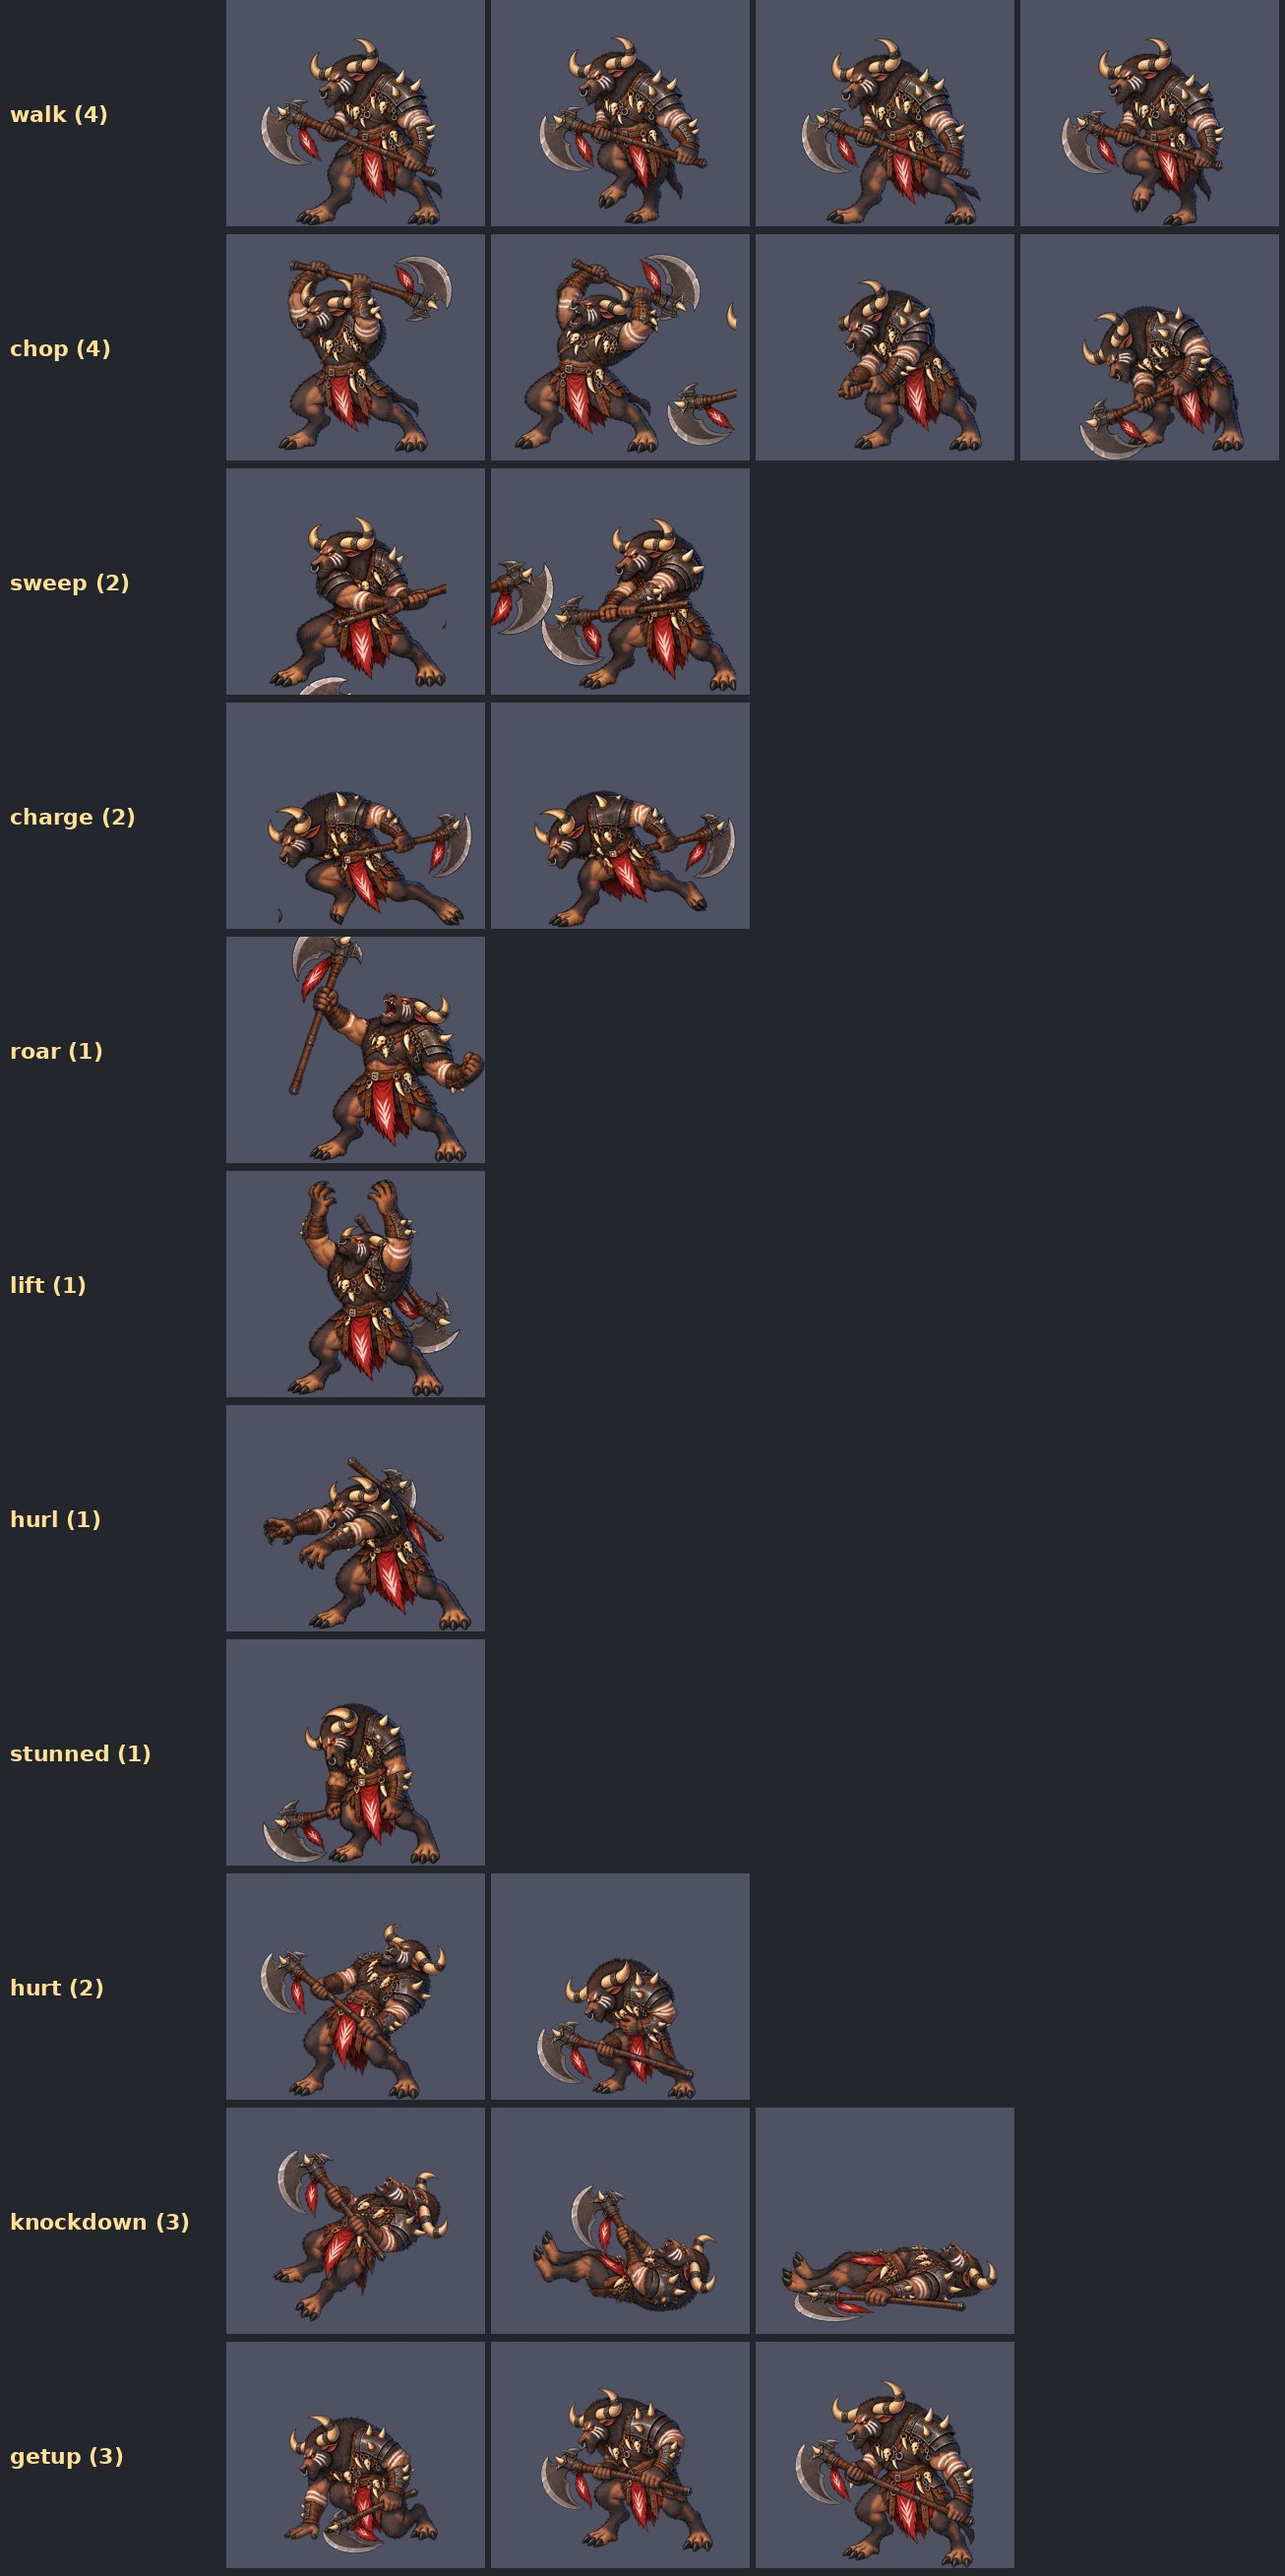
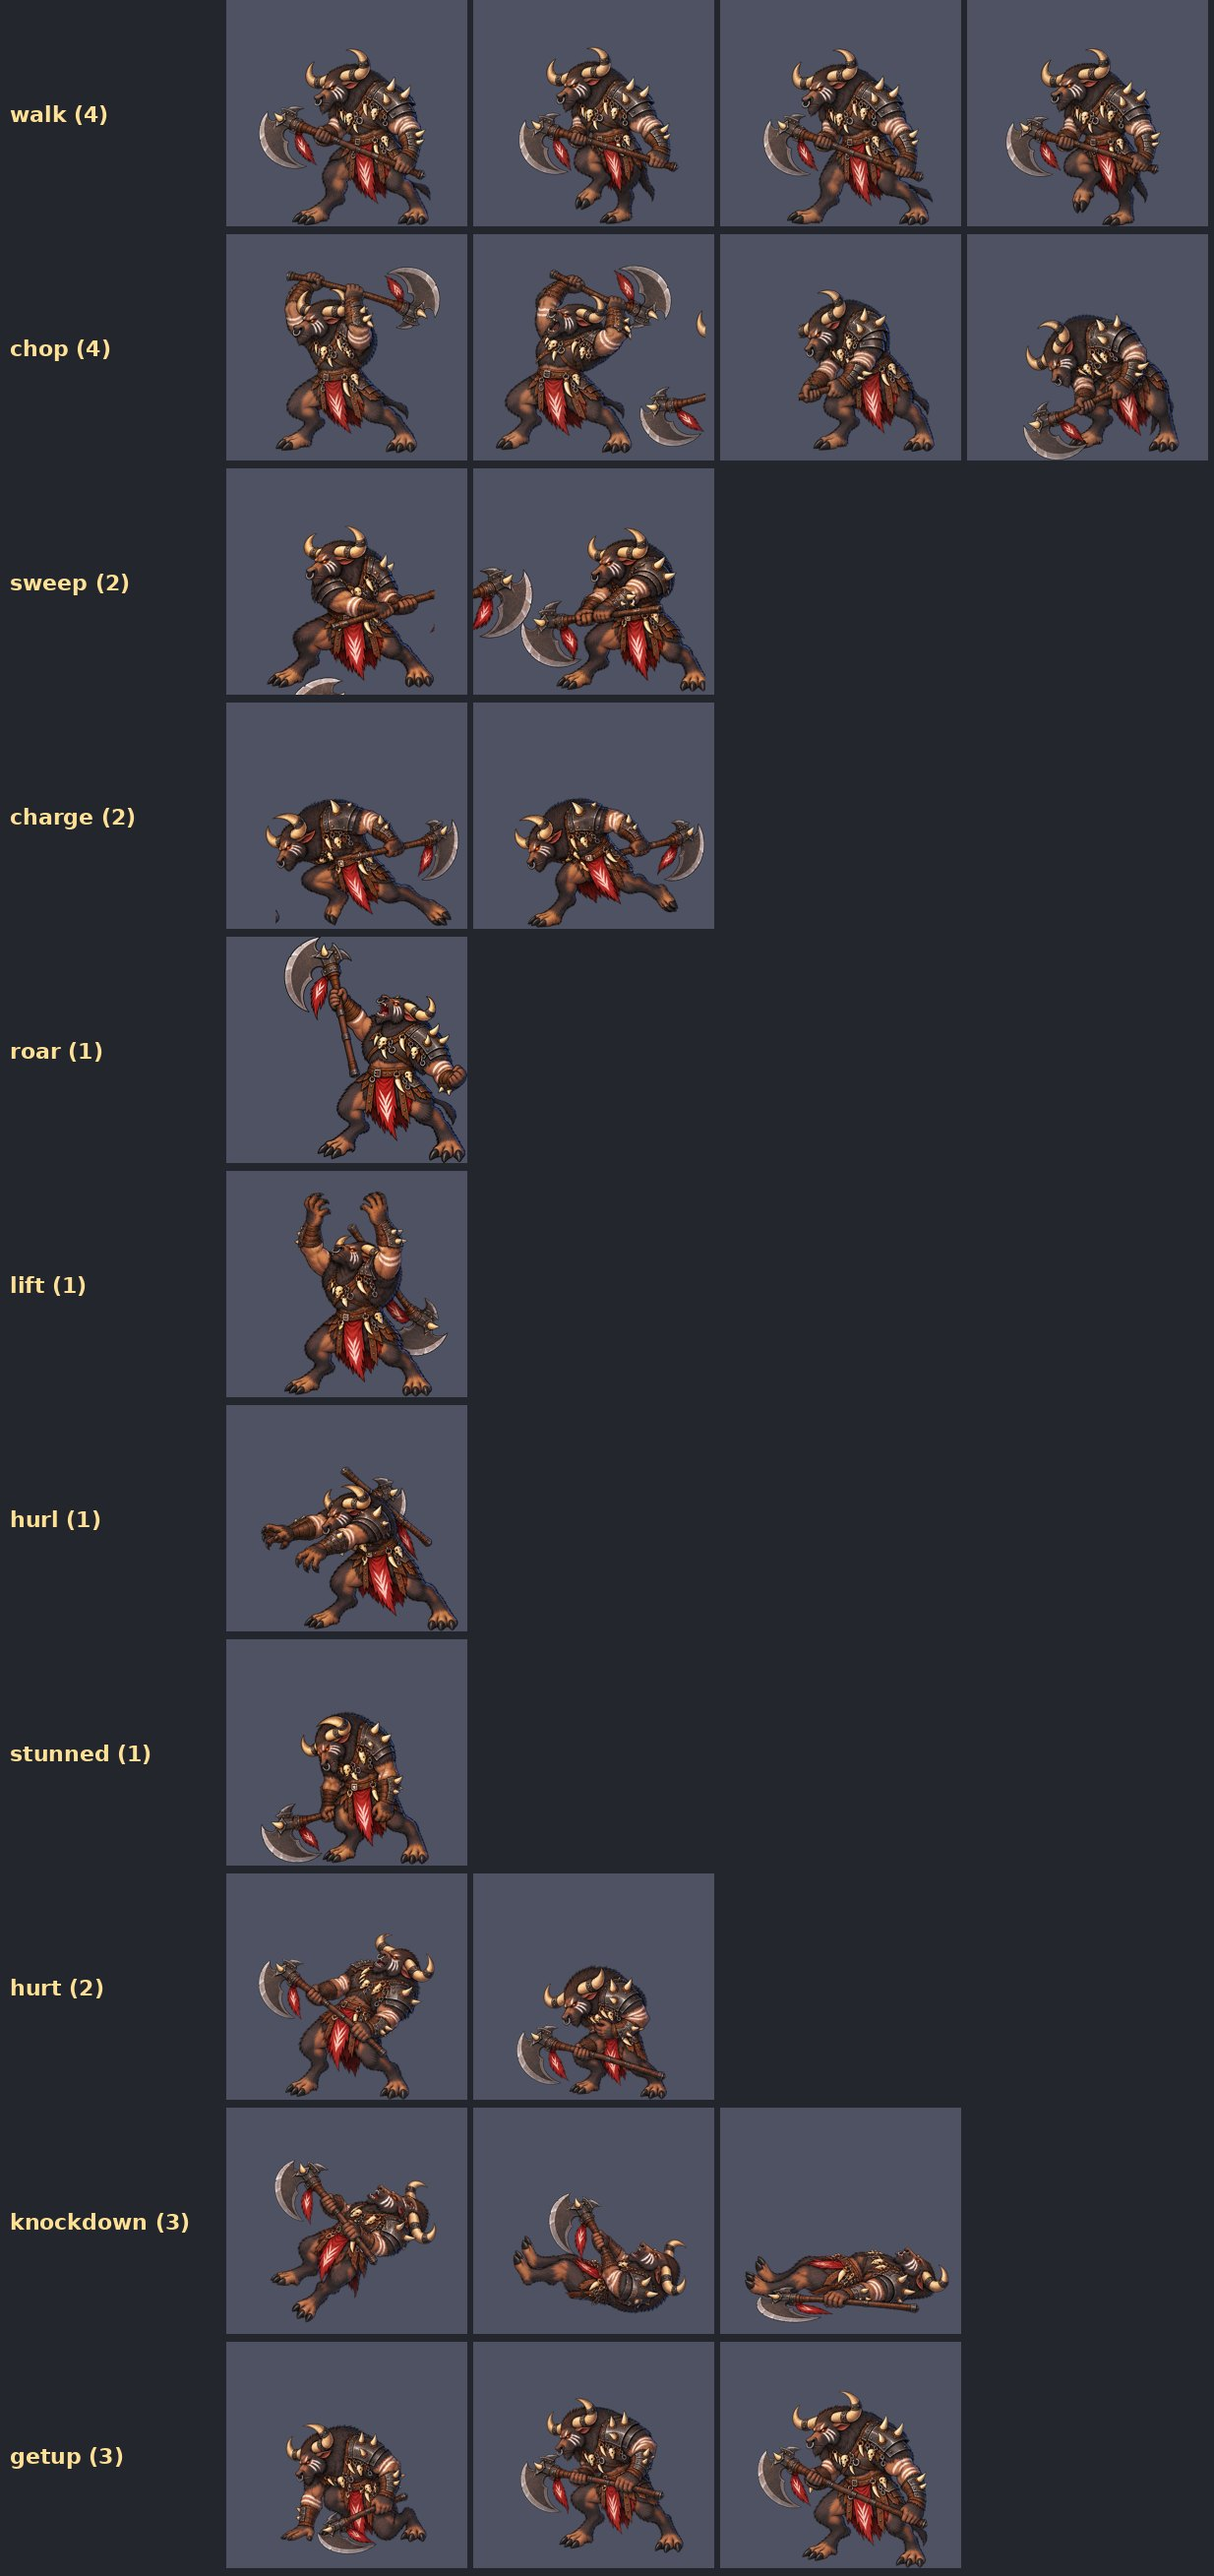
STAGE1.md: re-rolls section, roar correction; updated contact sheets and before/after images

diff --git a/STAGE1.md b/STAGE1.md
@@ -13,14 +13,14 @@ No frame was faked: nothing blurred, mirrored, recolored, interpolated or invent
 
 | Sheet | Frames used | Tries (kept) | Notes |
 |---|---|---|---|
-| Riley run | 8 | 3 (3rd) | Row 2 is close to row 1, so the cycle reads as 4 poses drawn twice with small differences. Acceptable at run speed, but a re-roll would help. |
+| Riley run | 8 | 3 (3rd) + re-roll 3 (2nd) | Frames 1–4 come from this sheet; frames 5–8 were re-rolled on Oct 2 (see Re-rolls). |
 | Riley jump + air kick | crouch, rise, apex, fall, land + kick 3 | 3 (2nd) | |
 | Riley back kick + cast | 4 + 4 | 2 (2nd) | Cast now has dedicated frames; the spike reused the jab. |
 | Riley grab set | grab, hold, knee ×2, throw ×2, return to guard ×2 | not logged | Return to guard is the tail of `throw`. |
 | Trolloc grunt chop (re-roll) | 6 + get-up 2 | 3 (2nd) | **The blade is rigid in every frame.** It no longer stretches like the spike's smear. |
 | Spear Trolloc master + sheets | walk 4, thrust 4, hurt 2, knockdown 3, get-up 3 | master 2, sheets 3 + 3 | Goat-horned, long spear. |
 | Hound Trolloc master + sheets | run 4, leap slash 4, reactions 8 | master 2, sheets not logged | Wolf-headed, hooked knives, fast flanker. |
-| Trolloc Chieftain master + sheets | walk 4, overhead chop 4, sweep 2, horn charge 2, roar 1, lift 1, hurl 1, stunned 1, reactions | master 2, sheets not logged | **The roar frame faces right** (the rest of his frames face left). In game it is displayed with the opposite flip, so he roars at Riley. |
+| Trolloc Chieftain master + sheets | walk 4, overhead chop 4, sweep 2, horn charge 2, roar 1, lift 1, hurl 1, stunned 1, reactions | master 2, sheets not logged | Roar frame re-rolled on Oct 2 (see Re-rolls). |
 | Backdrop batch 2 | village-green mid plate (oak, Winespring, burning wagon), second floor, cart, barrel, broken barrel (8 staves) | 1 job | The mid plate joins seamlessly with the spike plate. |
 
 - Total generations: 23 logged for 9 of the sheets above, plus at least 1 per remaining job and 5 backdrop images. Roughly 35–40 in all; the exact count wasn't logged for every job.
@@ -83,6 +83,18 @@ No frame was faked: nothing blurred, mirrored, recolored, interpolated or invent
 - boss state timers that never advanced, which froze the roar;
 - a HUD race on the first load from the live preview (a caption fired before the HUD existed).
 
+## Re-rolls (Oct 2, about 03:00–03:45 MST)
+
+All three images came from ChatGPT image generation through Codex, with no frames faked. Prompts are in `stage1/build_prompts.py` (jobs `riley-run2`, `chief-roar2`, `chief-portrait`), and each job folder has a `prompts-*.json` with the try count.
+
+| Item | Tries (kept) | Result |
+|---|---|---|
+| Riley run, second half | 3 (2nd) | A new 4-frame sheet of the **opposite-leg phases**: left-foot contact, down on the left leg, right leg passing, flight. The near arm now swings forward where the first half had it back. The run is now the old sheet's top row (frames 1–4) plus the new sheet (frames 5–8). The new sheet came back larger, so it was scaled ×0.725 against the old row, matched on head width and body height (`frames/riley.json`). Honest note: the arm swap reads clearly in frames 5–7, but the flight frame (8) has its arms much like frame 4. The legs are different in all four. See `docs/stage1/run-before-after.jpg` and `contact-riley-run-v2.jpg`. |
+| Chieftain roar | 2 (2nd) | A single new frame facing LEFT, head thrown back, axe raised (rigid, same size as the master). Registered to the walk scale by horn-to-feet height (`frames/chief.json`, ref_height 979). His build reads slightly leaner than in the walk frames, which is acceptable for one 1.1 s pose. The special-case flip was removed from `src/enemies.js`. See `docs/stage1/roar-before-after.jpg` and `roar-new.jpg`. |
+| Chieftain HUD portrait | 3 (3rd) | A dedicated head-and-shoulders bust: snarling, three-quarter view toward the left, iron-banded horns and nose ring, war paint, skull pauldrons, on a night-blue background. It is cropped to a circle at 256 px like Riley's portrait and shown at 68 px with a ring in the boss bar. See `docs/stage1/portraits.jpg`. |
+
+Riley's and the Chieftain's atlases were rebuilt and repacked (Riley 72 frames, Chieftain 24; same page sizes, give or take a few pixels).
+
 ## Performance
 
 - **`window.__perf.summary`** gives:
@@ -126,11 +138,11 @@ Keys: 1 lights, 2 bloom, 3 slow motion, M music, N mute, H perf readout.
 
 ## Decisions and honest notes
 
-1. **Facing uses runtime flipX.** Every frame is drawn facing one way; the other way is the same frame flipped at display time. That is standard for the genre, but technically it is mirroring, so it is flagged here. Lighting stays correct because flipped sprites switch to a flipped normal map (`_nl`, red channel inverted). If you want hand-drawn opposite-facing frames, that roughly doubles the art count.
+1. **Facing uses runtime flipX (approved by Jason, Oct 2).** Every frame is drawn facing one way; the other way is the same frame flipped at display time. Lighting stays correct because flipped sprites switch to a flipped normal map (`_nl`, red channel inverted).
 2. **Boss armor flash** is a 70 ms warm tint on the Chieftain's sprite. It is a display effect, not a new frame.
-3. **Chieftain roar faces right** (generation error, see the art table). It is handled with the same runtime flip as decision 1, applied the other way. A re-roll of that one frame would remove the special case.
-4. **The run cycle repeats** (see the art table).
-5. **The Chieftain HUD portrait** is a circular crop of his master; it reads small. A dedicated portrait would be better.
+3. **Chieftain roar: correction.** The original roar frame actually faced LEFT like his other frames. My "faces right" flag from the art review was wrong. The special-case flip I added because of it made him roar facing *away* from Riley in the previous preview (`861b6c3`). The roar is now a re-rolled frame facing left, and the special case is removed.
+4. **Run cycle: fixed.** The second half was re-rolled (see Re-rolls).
+5. **Chieftain HUD portrait: fixed.** It is now a dedicated painted bust (see Re-rolls).
 6. **The bot picks its own fights.** It rarely backs off far enough for the Chieftain's cart hurl. The cart, charge and stun were checked with forced triggers (`docs/stage1/boss-charge.jpg`).
 7. **Gemini was not used.** Only ChatGPT image generation through Codex was available on this box.
 8. **No audio was regenerated.** It is 1.2's audio carried over, as asked.
